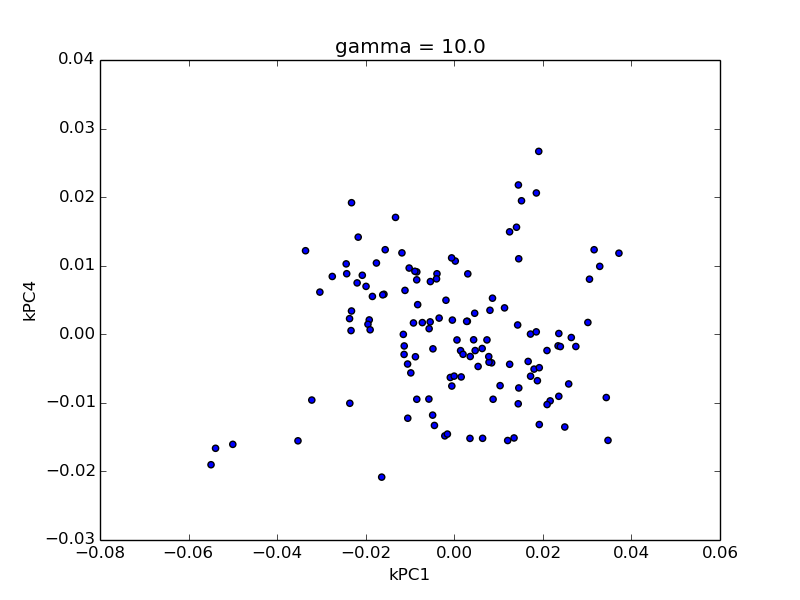
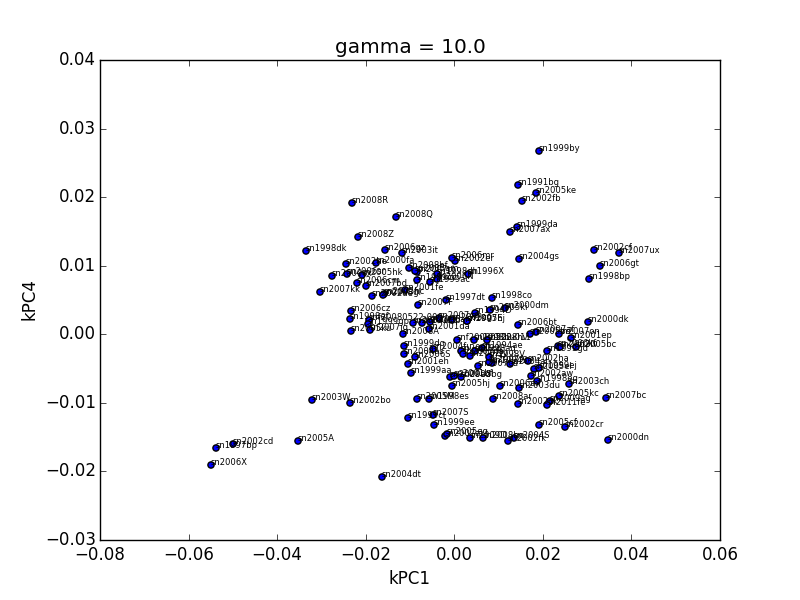
Tags on the figures.

diff --git a/python/kpca/kpca.py b/python/kpca/kpca.py
@@ -22,12 +22,16 @@ matrix = np.array([[float(item) for item in line] for line in data1[1:]])
 kpca = KernelPCA(kernel="linear", gamma=par_gamma)
 X_kpca = kpca.fit_transform(matrix)
 
+data_dir='../../data/'
+SNe = np.loadtxt(data_dir+'SNe.txt',dtype=str)
 
 for i in xrange(3):
     for j in xrange(i + 1, 4):
         plt.figure()
         plt.title('gamma = ' + str(par_gamma))
         plt.scatter(X_kpca[:,i], X_kpca[:,j])
+        for k in range(np.size(SNe)):
+            plt.text(X_kpca[k,i], X_kpca[k,j],SNe[k],size=6)
         plt.xlabel('kPC' + str(i + 1))
         plt.ylabel('kPC' + str(j + 1))
         plt.savefig('plots/kpca_plot_' + str(i + 1)+ '_' + str(j + 1) + '_gamma_' + str(par_gamma) + '_' + case + '.png')
